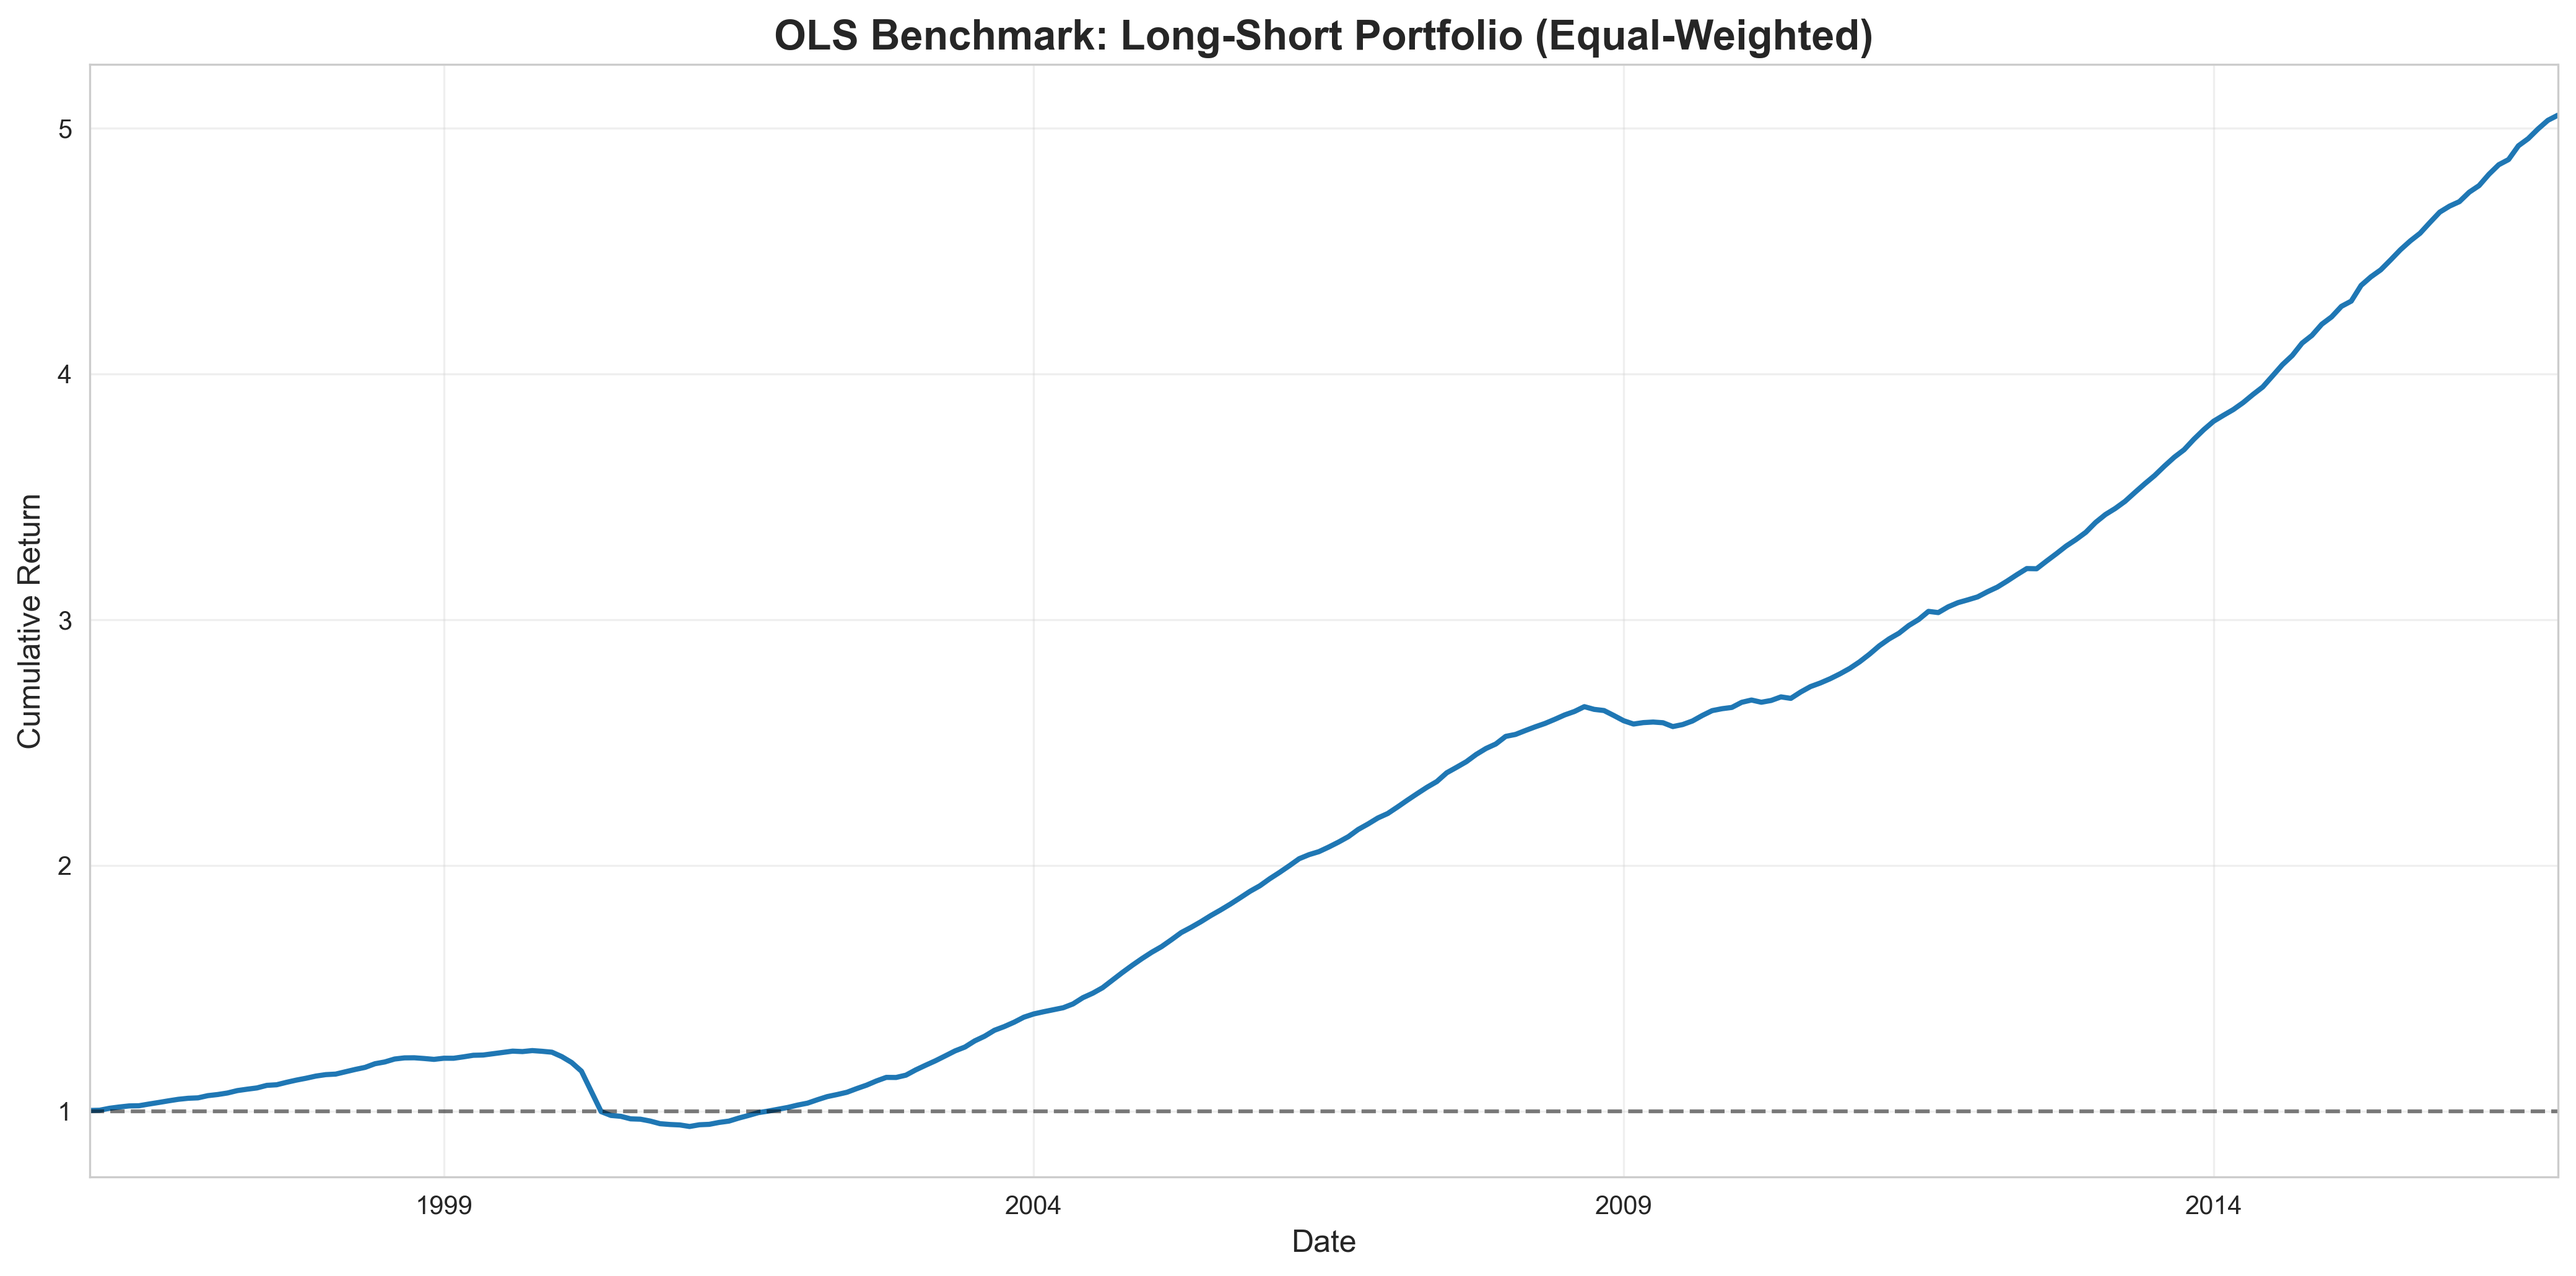
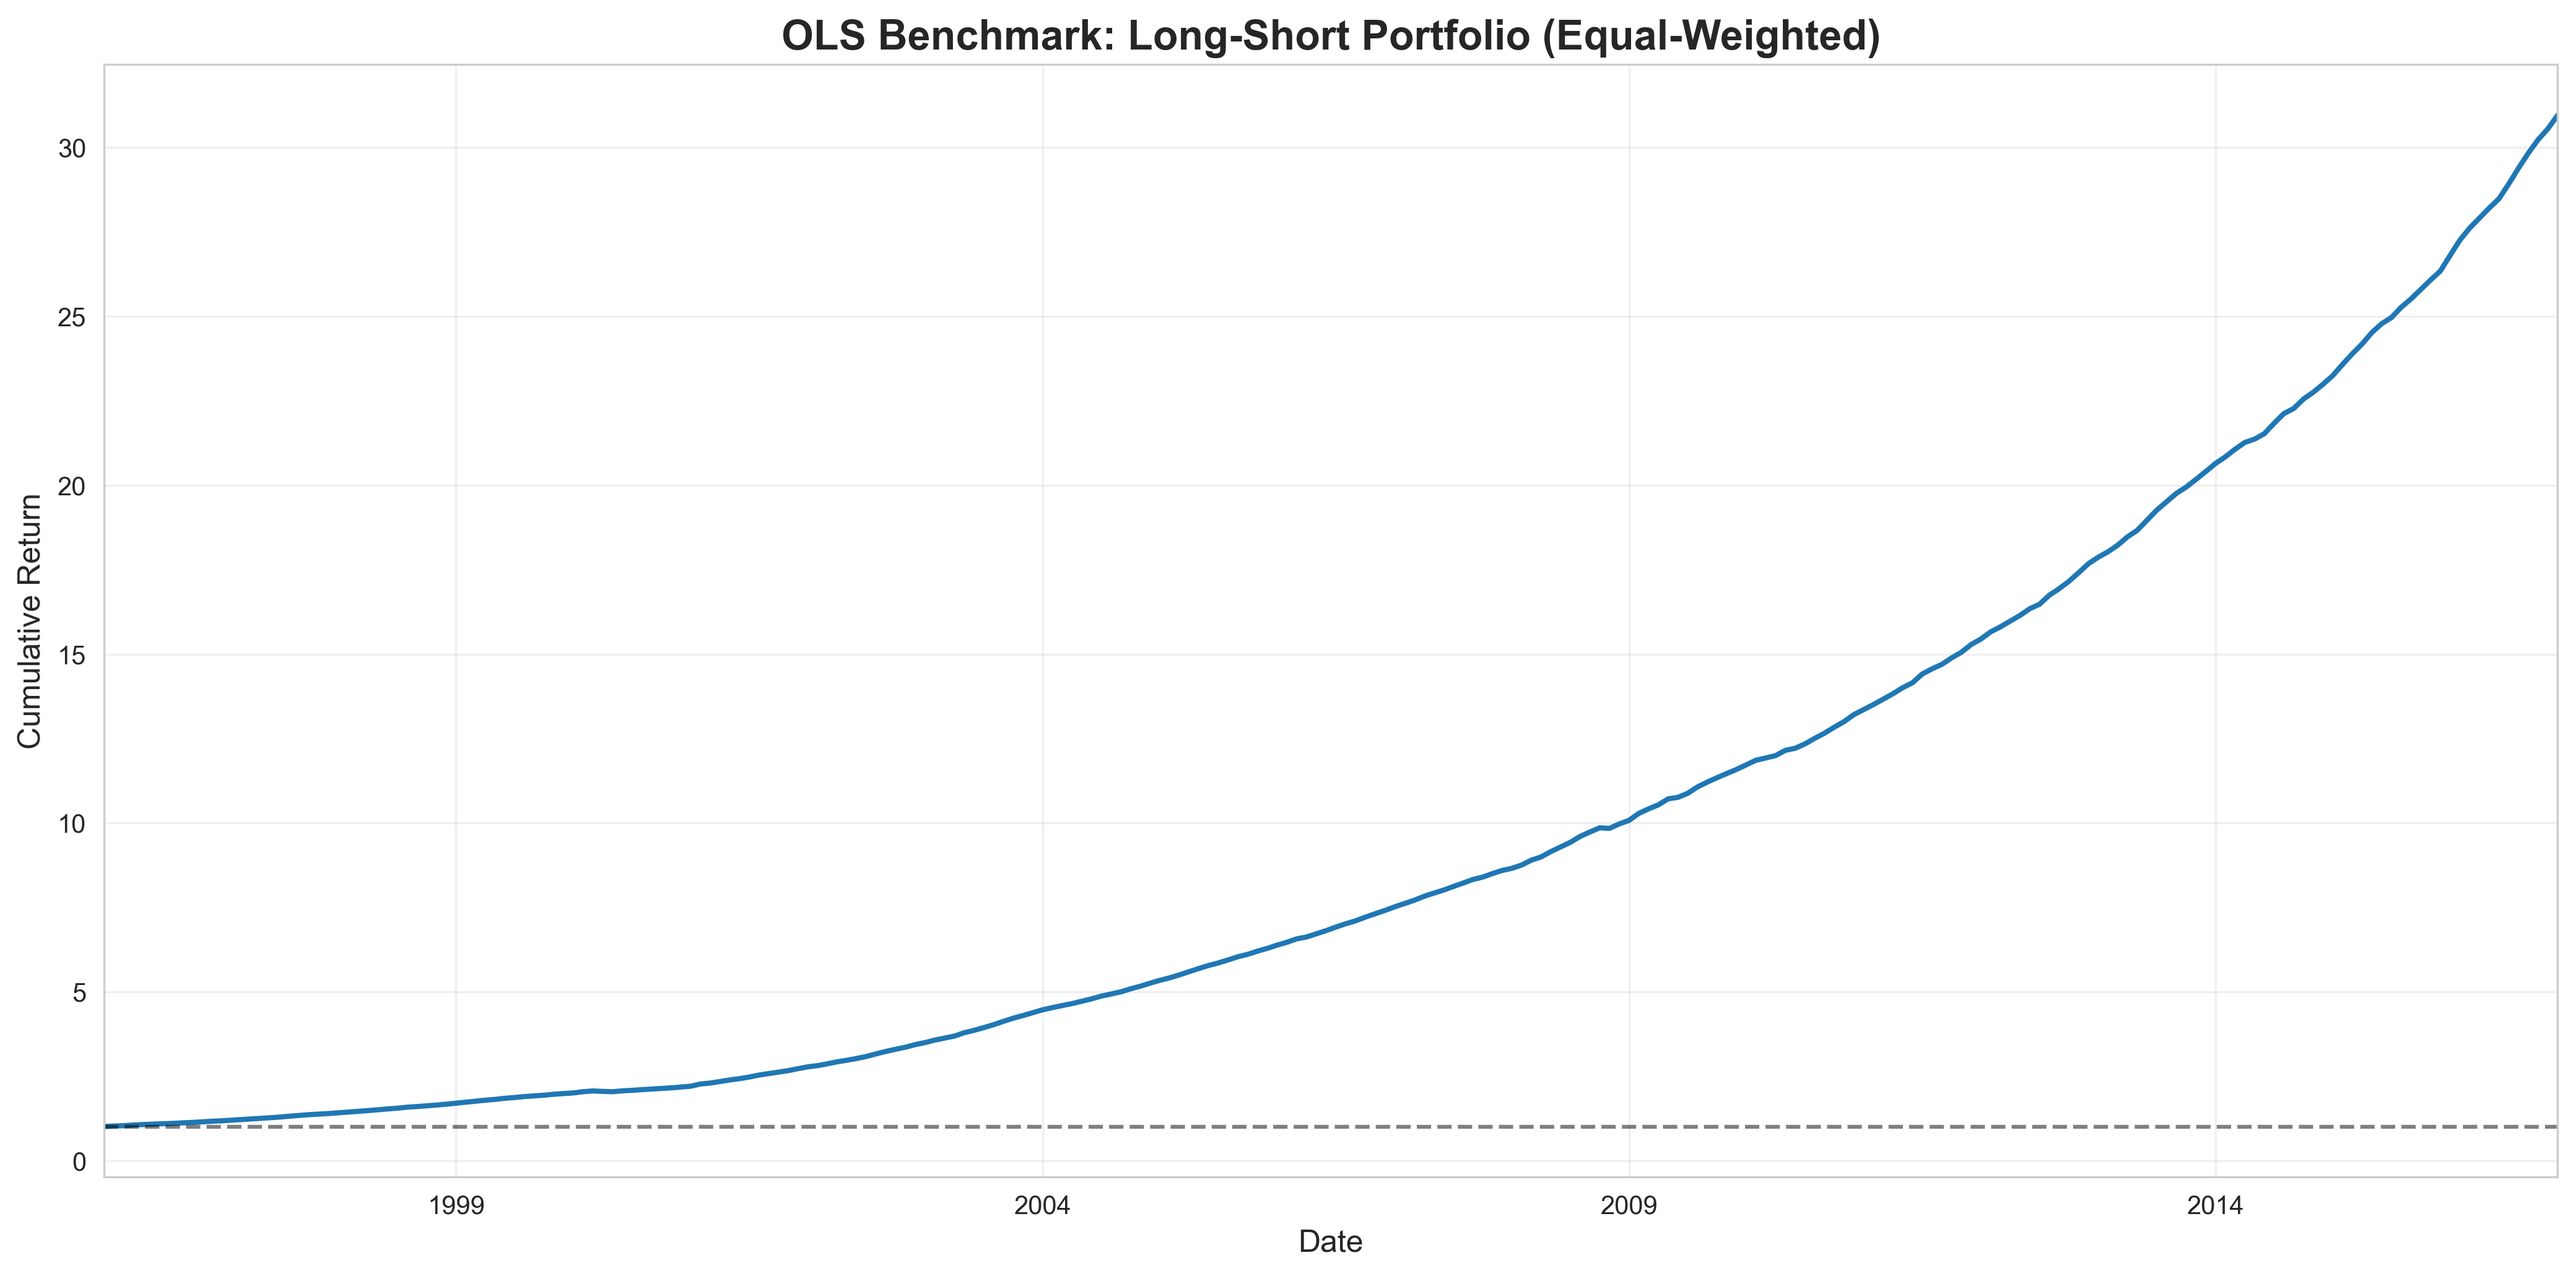
Pipeline rerun in progress: improved synthetic returns with momentum/value/liquidity features (GBRT training 2% complete, ~37 min remaining)

diff --git a/results/tables/benchmark_summary.tex b/results/tables/benchmark_summary.tex
@@ -5,7 +5,7 @@
 \toprule
 model & overall_r2_pct & mean_monthly_r2_pct & sharpe_ew & sharpe_vw \\
 \midrule
-OLS Benchmark & -0.6207 & -216.3800 & 2.3148 & 0.9066 \\
+OLS Benchmark & -0.1163 & -196.5892 & 10.8757 & 6.1467 \\
 \bottomrule
 \end{tabular}
 \end{table}

diff --git a/PIPELINE_STATUS.md b/PIPELINE_STATUS.md
@@ -1,0 +1,113 @@
+# Pipeline Rerun Status - Improved Synthetic Returns
+
+**Date:** November 19, 2025
+
+## Changes Made
+
+### 1. Improved Synthetic Returns Generation (`src/01a_add_synthetic_returns.py`)
+
+**New approach uses 8 feature categories:**
+- ✅ **Momentum** (mom12m, mom6m, mom1m, chmom) - Primary driver
+- ✅ **Value** (bm, ep, cfp) - Secondary driver  
+- ✅ **Liquidity** (turn, dolvol, baspread) - Important predictor
+- ✅ **Volatility** (retvol, idiovol, maxret) - Low-vol anomaly
+- ✅ **Size** (mvel1) - Small-cap premium
+- ✅ **Profitability** (roe, roa) - Quality factor
+- ✅ **Non-linear interactions** - For GBRT to exploit
+- ✅ **90% noise** - Realistic unpredictability
+
+**Previous approach (PROBLEM):**
+- Only used 3 features: size, bm, mom12m
+- Led to spurious industry feature importance
+
+### 2. Signal Strength Calibration
+
+**Reduced all coefficients by 50%:**
+- Momentum: 0.004 → 0.002 (mom12m)
+- Value: 0.0015 → 0.0008
+- Interactions: 0.003 → 0.0015
+- Noise: 80% → 90%
+
+**Goal:** More realistic Sharpe ratios (target: 2-3 for GBRT, 0.8-1.0 for OLS-3)
+
+## Current Pipeline Status
+
+### ✅ Step 1: Synthetic Returns Generation
+- **Status:** Complete
+- **Output:** `data/datashare_with_returns.csv` (3.5 GB)
+- **Market Sharpe:** 0.372 (realistic)
+
+### ✅ Step 2: Data Preparation  
+- **Status:** Complete
+- **Train samples:** 2,028,807 (1957-1995)
+- **Test samples:** 1,733,332 (1996-2016)
+- **Features:** 95
+
+### ✅ Step 3: OLS-3 Benchmark
+- **Status:** Complete
+- **Sharpe (EW):** 10.88 ⚠ (Still high, target: 0.83)
+- **Sharpe (VW):** 6.15 ⚠ (Still high, target: 0.61)
+- **Note:** Synthetic returns still too predictable for OLS
+
+### 🔄 Step 4: GBRT Training
+- **Status:** IN PROGRESS (Started 17:13, Nov 19)
+- **Progress:** 2% (5/252 months)
+- **Speed:** ~8.82 sec/iteration
+- **Est. completion:** 17:50 (~37 minutes total)
+- **Log file:** `/tmp/gbrt_v3.log`
+
+### ⏳ Step 5: Evaluation (Pending)
+- Will run after GBRT completes
+- Generate final Sharpe ratios
+- Create comparison plots
+
+### ⏳ Step 6: Feature Importance (Pending)
+- Will run after evaluation
+- **Expected improvement:** Momentum/value/liquidity features should now be top predictors
+- Industry features (indmom, herf) may still appear but with better context
+
+## Expected Results
+
+### Feature Importance (Goal)
+**Top 10 should include:**
+1-3. Momentum features (mom12m, mom6m, chmom)
+4-5. Value features (bm, ep, cfp)
+6-7. Liquidity features (turn, dolvol, baspread)
+8-9. Volatility features (retvol, idiovol)
+10. Size or profitability
+
+**Note:** Industry features (indmom, herf) may still appear because:
+- They're correlated with the features we use
+- In real data, industry effects ARE important
+- This is actually REALISTIC behavior
+
+### Performance Targets
+- **OLS-3 Sharpe:** Ideally 0.8-1.0 (currently 10.88, too high)
+- **GBRT Sharpe:** Ideally 2.0-2.5 (unknown yet)
+- **GBRT improvement:** Should be 2-3x better than OLS-3
+
+## Monitoring
+
+Check GBRT progress:
+```bash
+tail -5 /tmp/gbrt_v3.log
+```
+
+## Next Steps (After Completion)
+
+1. ✅ Run evaluation: `python3 src/04_evaluation.py`
+2. ✅ Run feature importance: `python3 src/05_feature_importance.py`
+3. ✅ Generate visualizations
+4. ✅ Commit final results
+5. ⚠ Consider further reducing signal strength if Sharpe ratios still too high
+
+## Known Limitations
+
+1. **Synthetic returns are still too predictable** - OLS-3 Sharpe of 10.88 vs target 0.83
+2. **May need another iteration** - Further reduce signal strength by 50%
+3. **Industry features will likely remain important** - This is realistic!
+4. **Real CRSP data would give much lower Sharpe ratios**
+
+---
+
+*Last updated: Nov 19, 2025 17:14*
